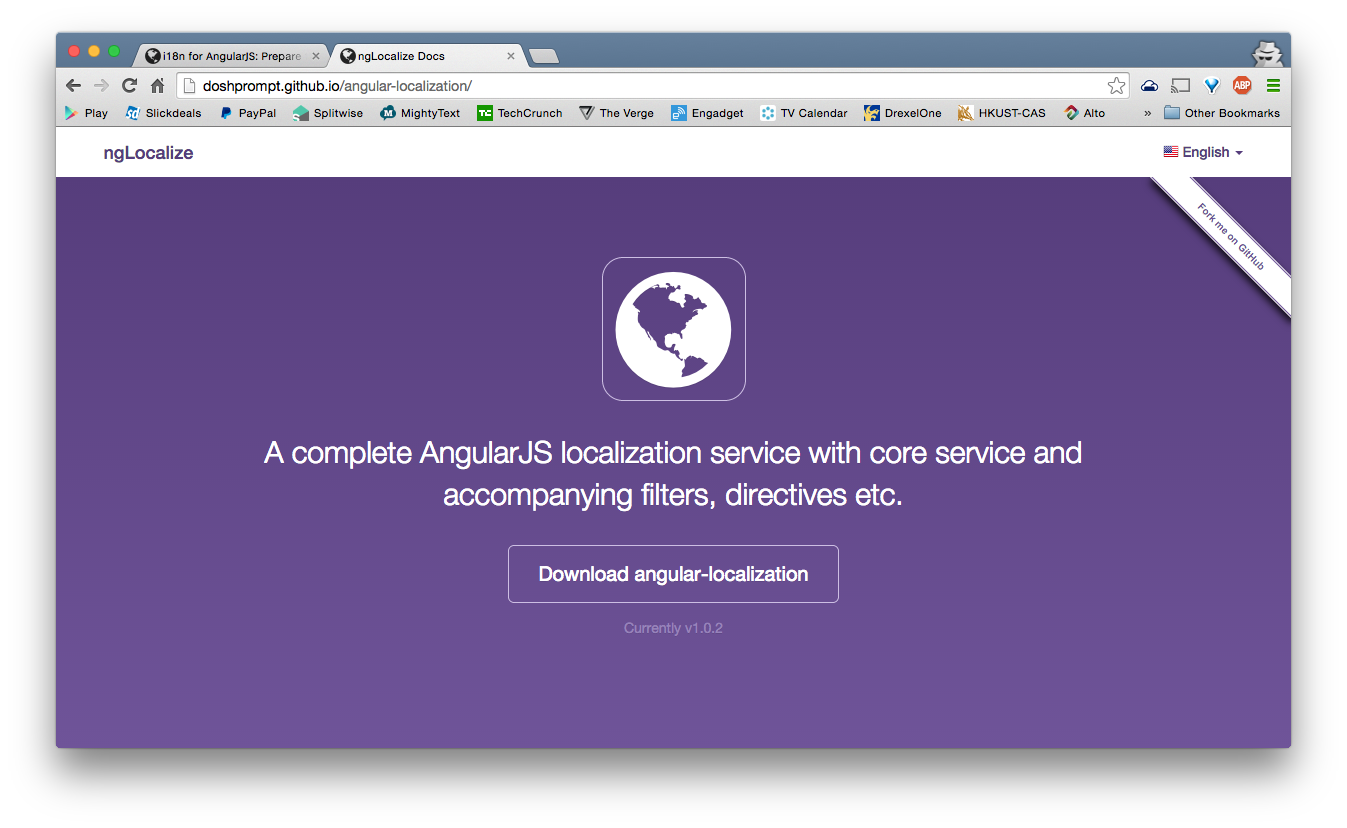
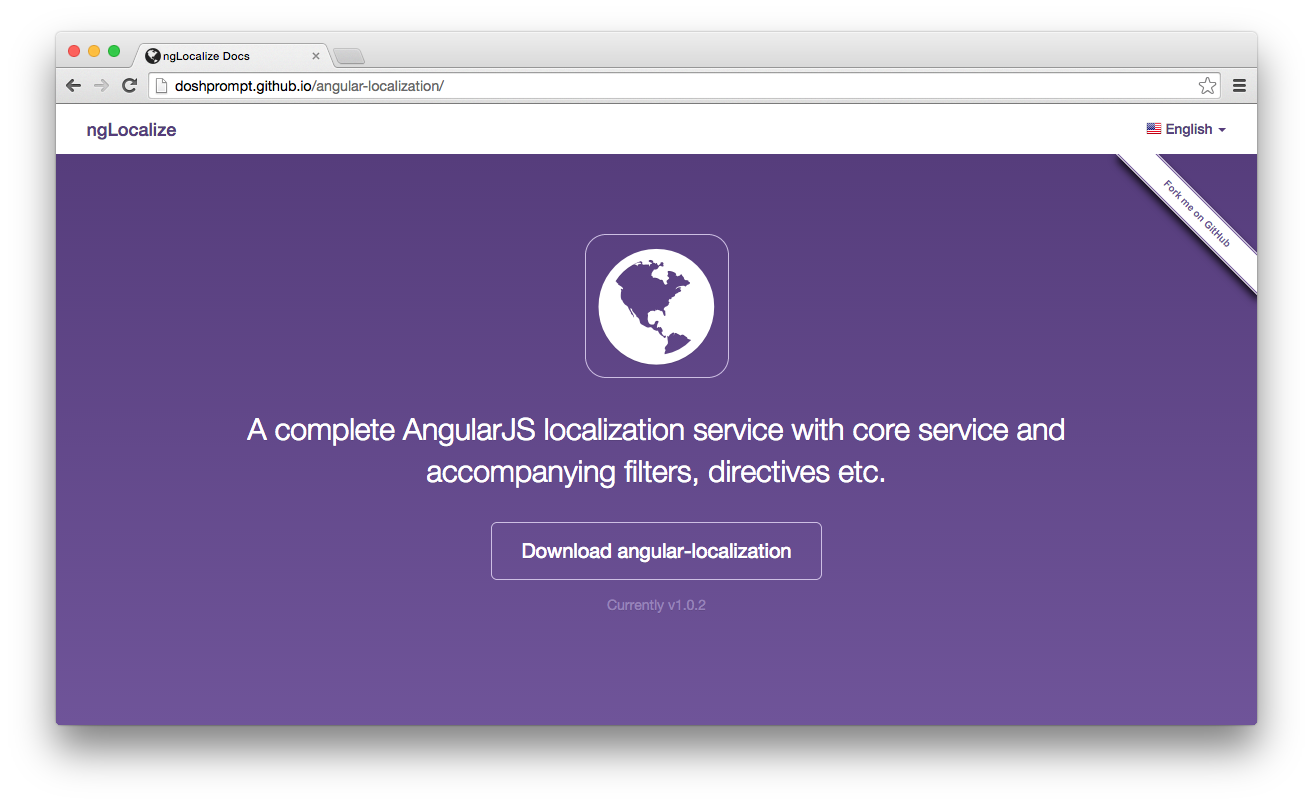
Better screenshots
- cleaner docs image
- grunt task demo gif

diff --git a/index.html b/index.html
@@ -246,7 +246,6 @@
                             class="fragment"
                             src="http://imgs.xkcd.com/comics/standards.png"
                             title="Fortunately, the charging one has been solved now that we've all standardized on mini-USB. Or is it micro-USB? Shit.">
-                        </img>
                     </section>
 				</section>
 
@@ -794,7 +793,13 @@ $scope.pluralStrings = {
                     </section>
 
                     <section>
-                        <h2>grunt-angular-localization</h2>
+                        <h2>
+                            <a href="https://www.npmjs.org/package/grunt-angular-localization" target="_blank">
+                                grunt-angular-localization
+                            </a>
+                        </h2>
+
+                            <img class="screenshot" src="img/grunt-angular-localization.gif">
                     </section>
                 </section>
 
@@ -810,7 +815,7 @@ $scope.pluralStrings = {
                             </a>
                         </h2>
 
-                        <img src="img/angular-localization.png" class="screenshot"></img>
+                        <img src="img/angular-localization.png" class="screenshot">
                     </section>
 
                     <section>
